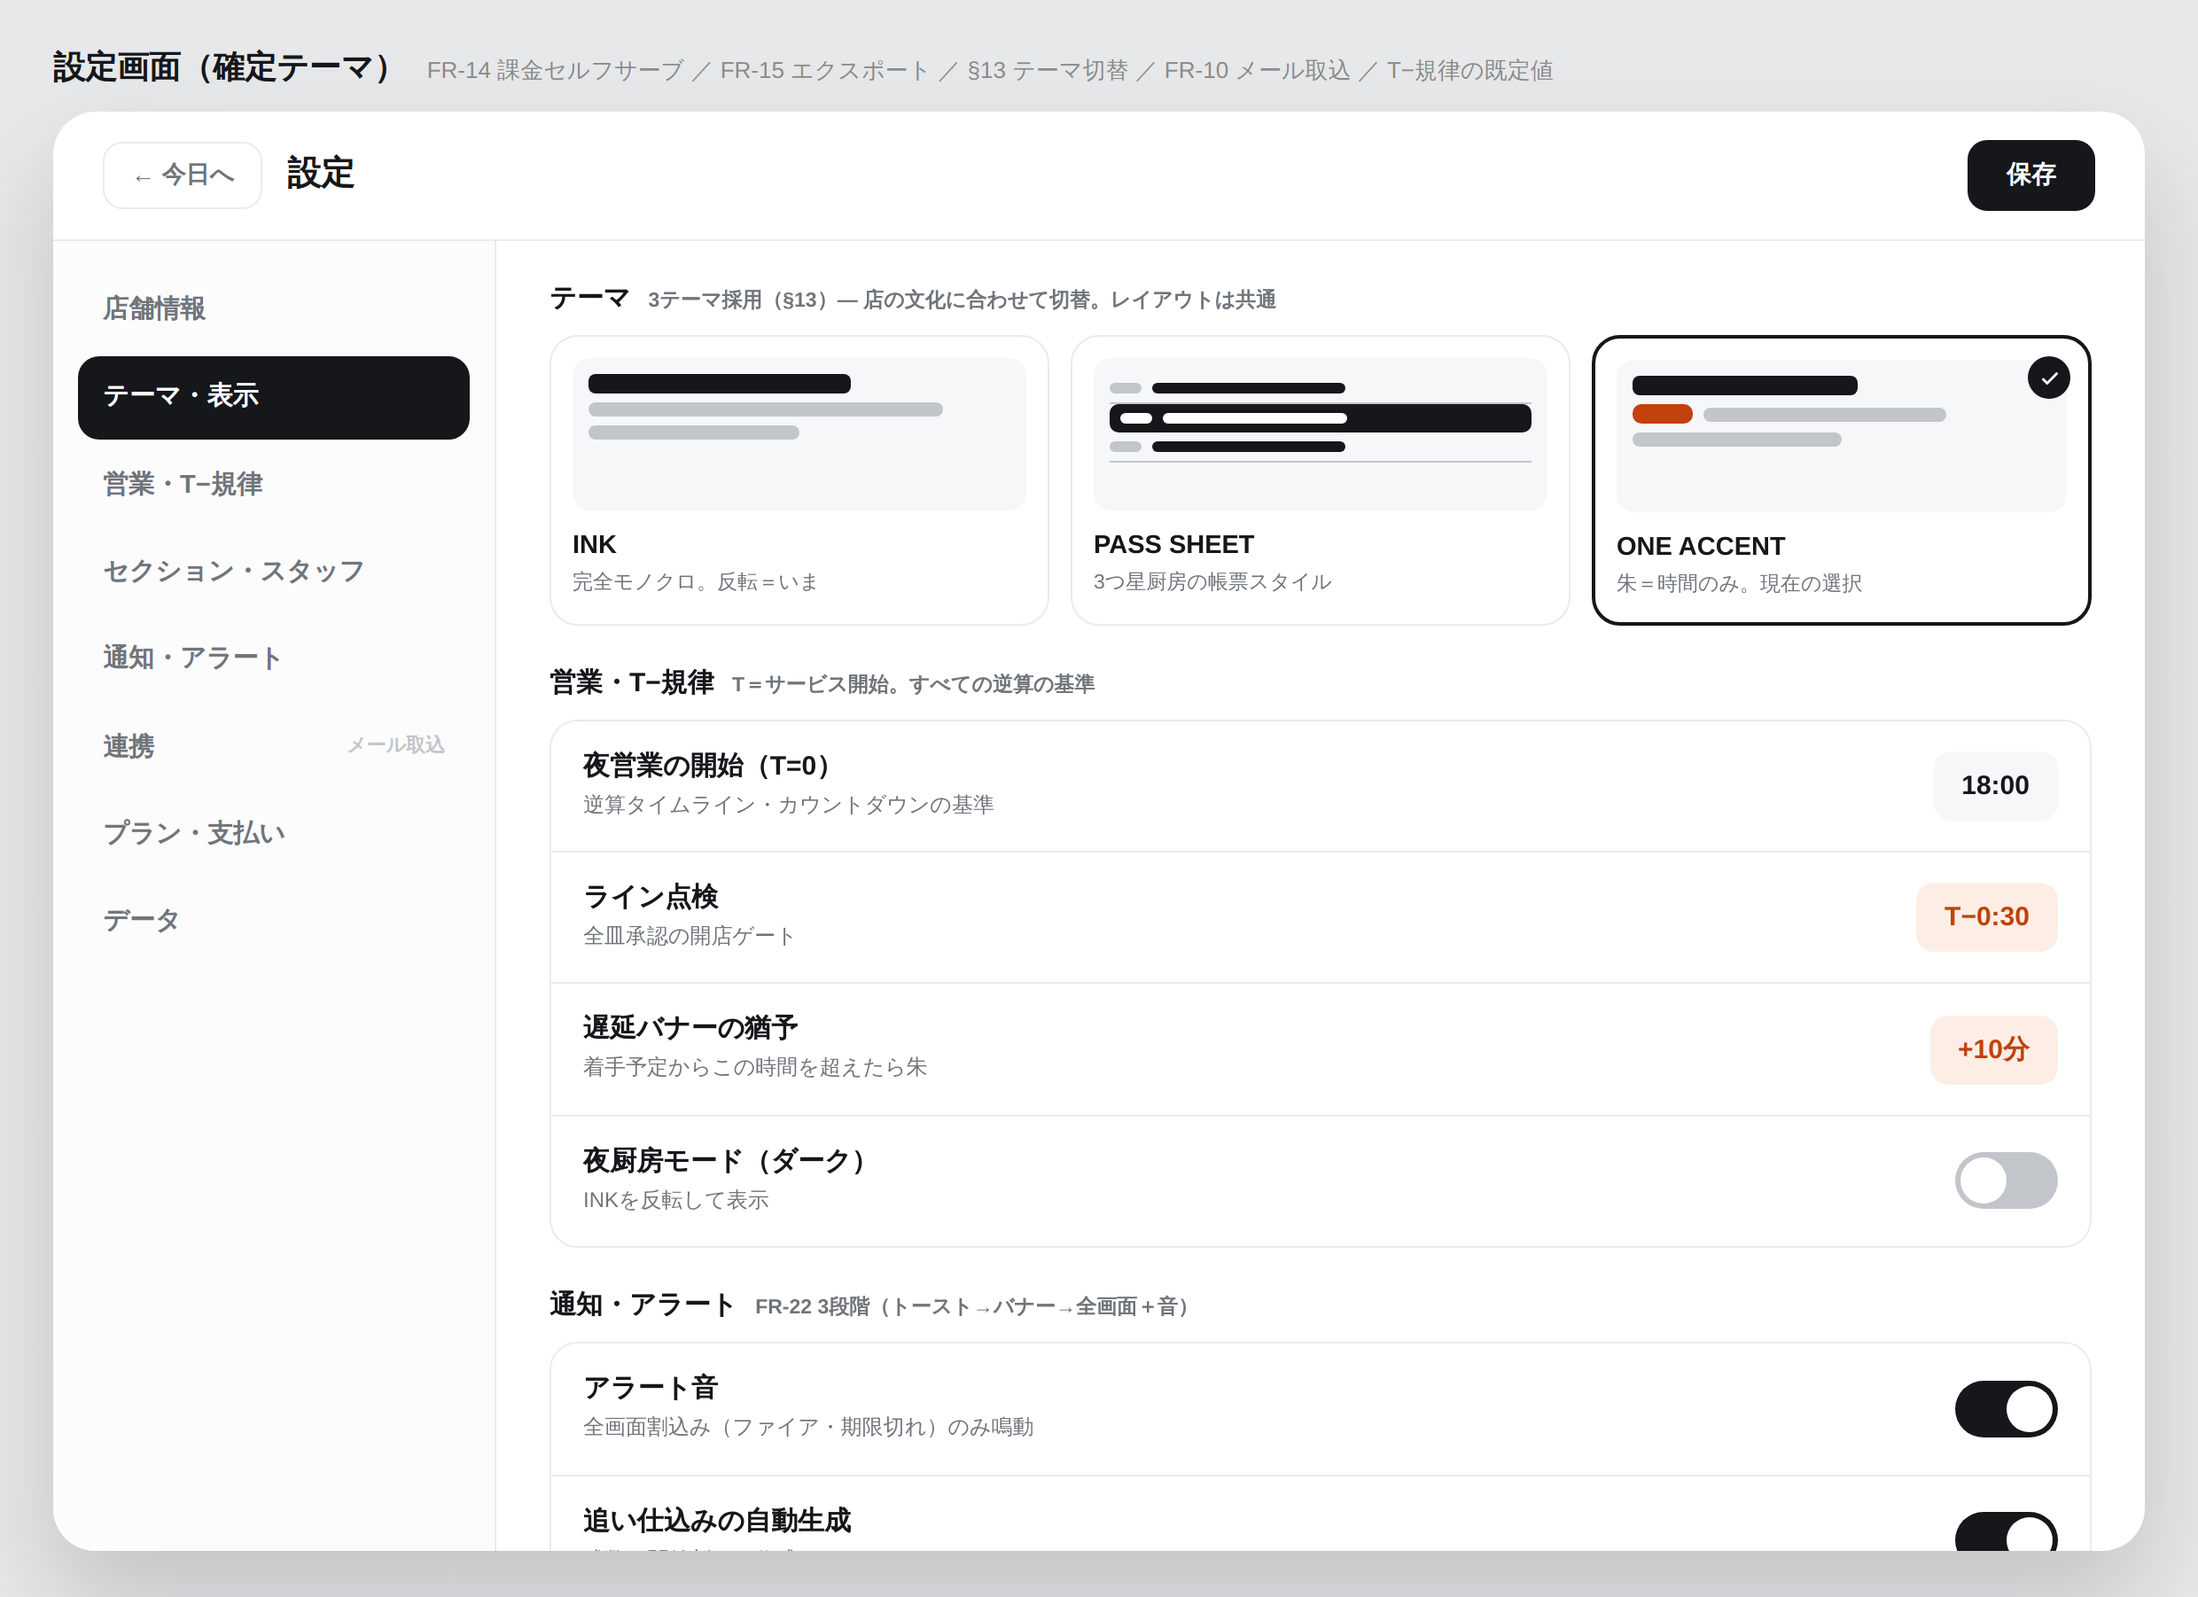
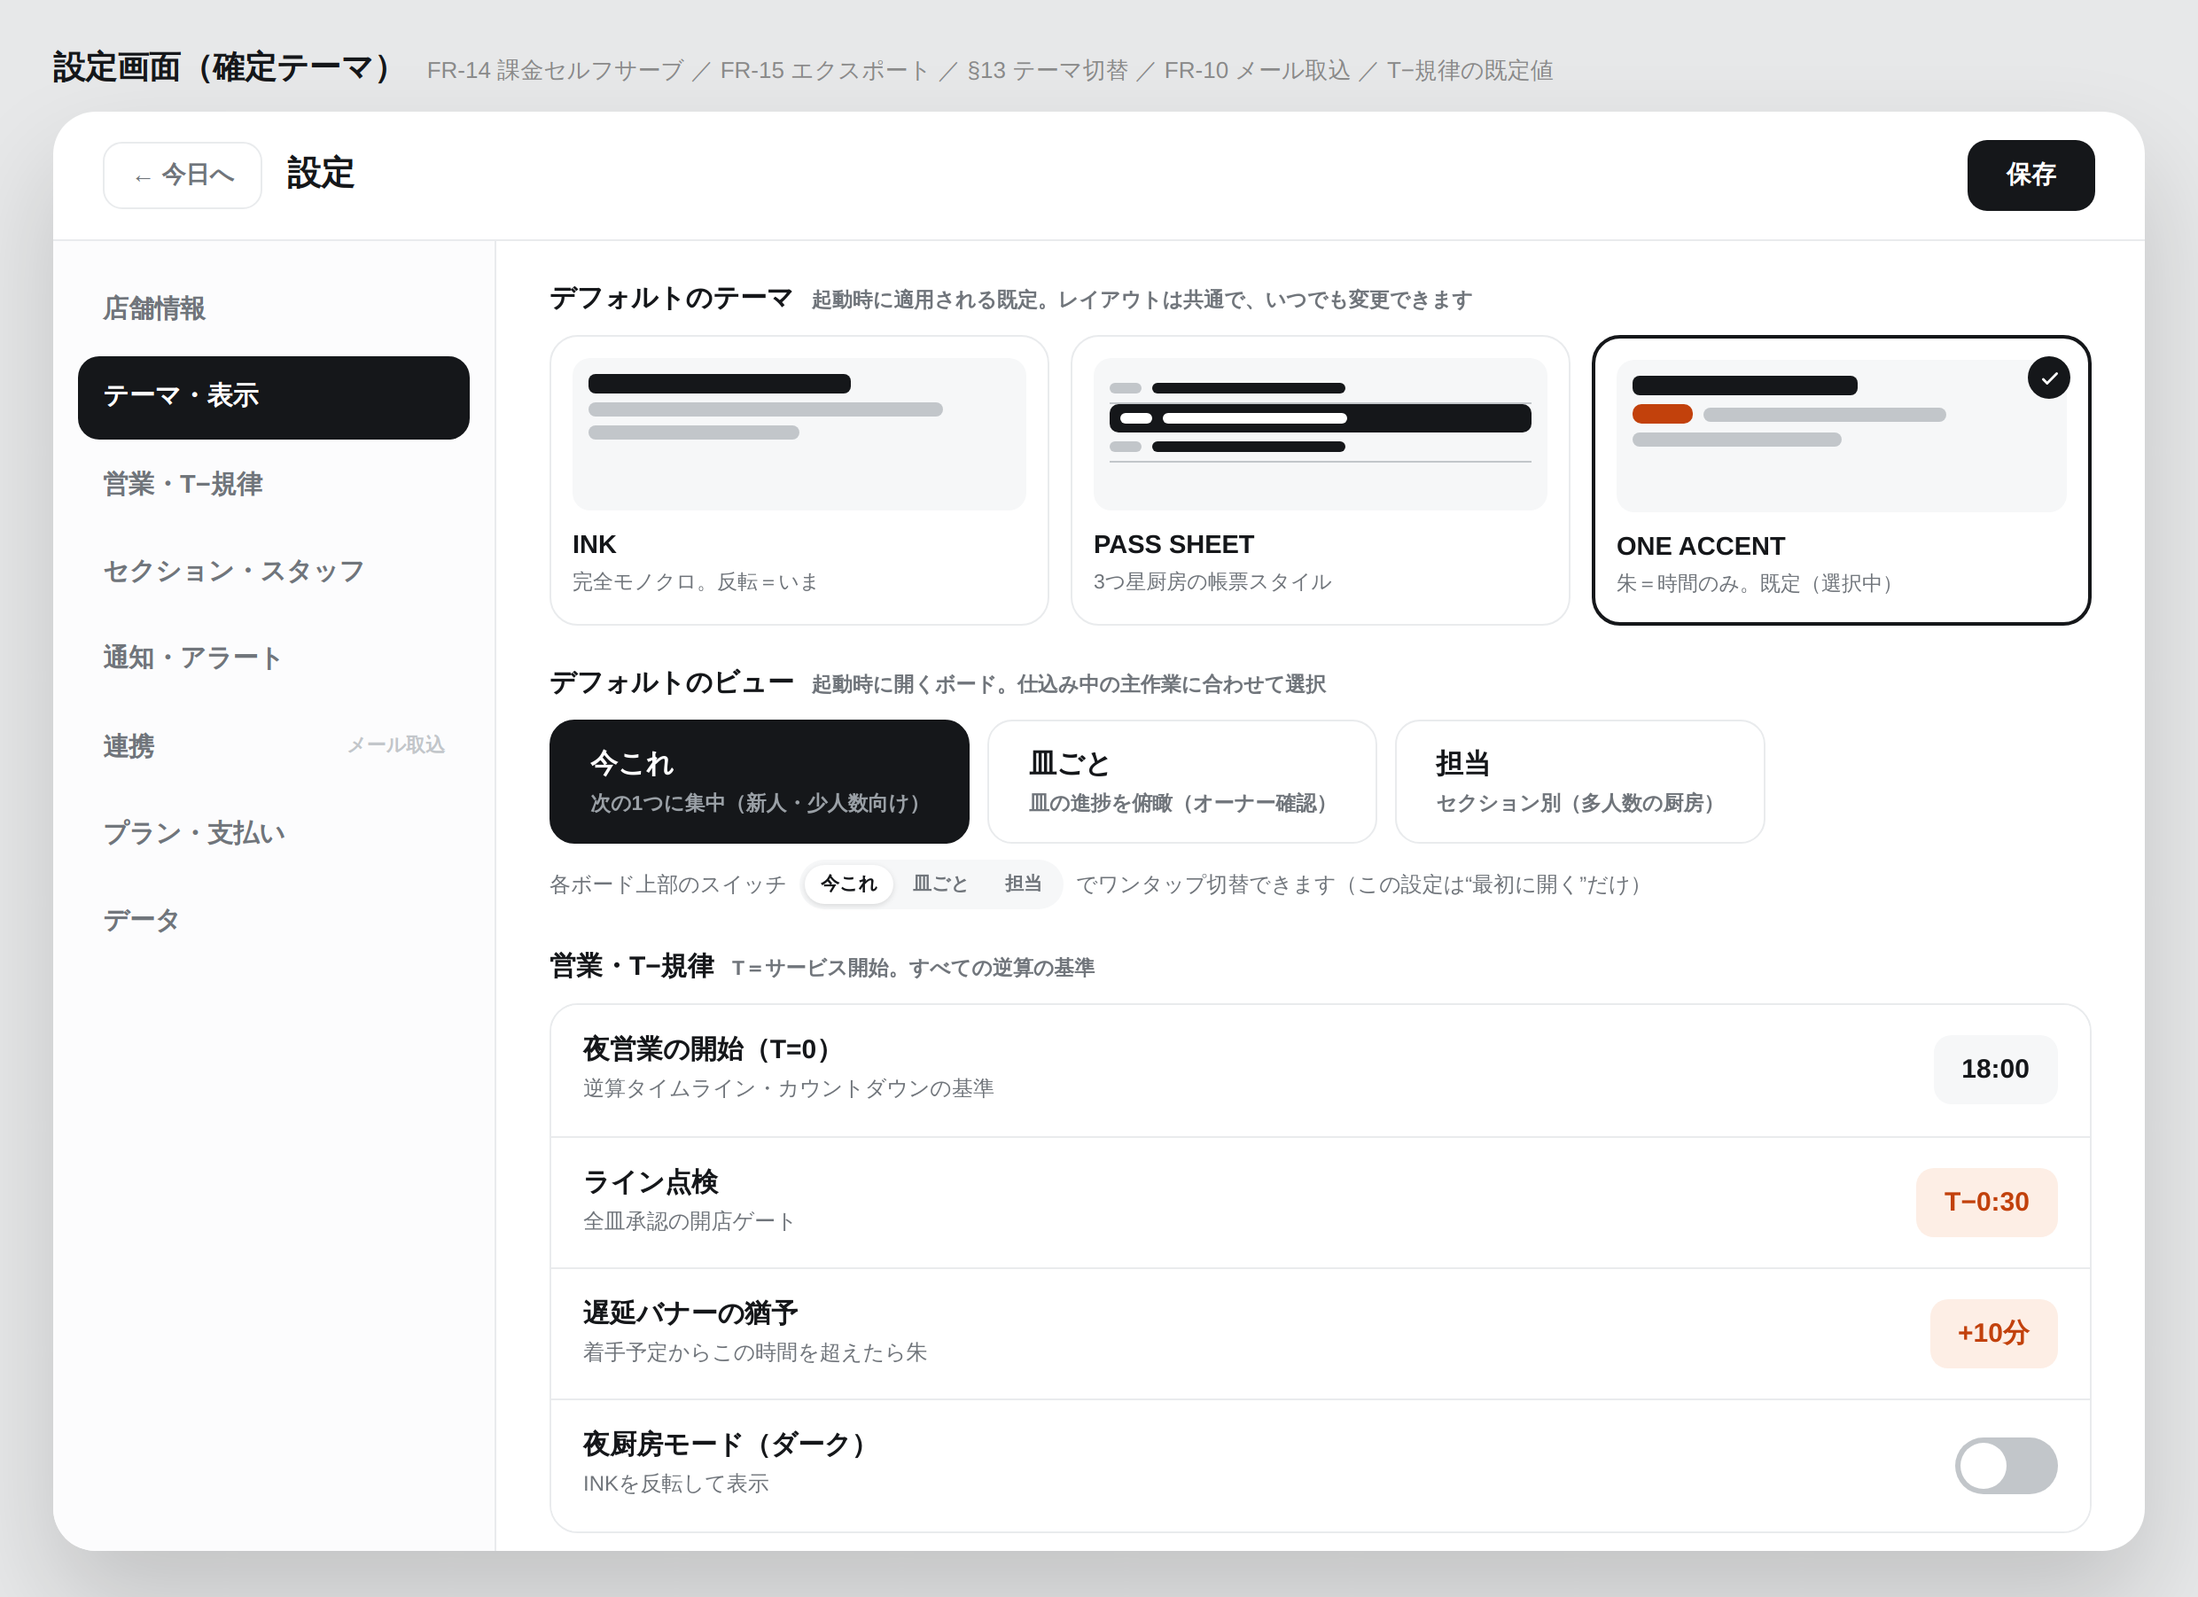
Settings defaults (theme+view) and pilot one-pager
- 設定: テーマ・表示を「デフォルト設定」を選ぶ形に変更
  （デフォルトのテーマ＋デフォルトのビュー。各ボード上部スイッチで即切替できる旨を明示）
- パイロット店向け資料（1ページ）: 課題→価値→3ステップ→実画面4枚→差別化→料金→無料パイロット募集
  実画面はキャプション除去のクリーンショット（pilot-shot-*.png）を埋め込み

https://claude.ai/code/session_018mZZ112uFbi6TDTQG5iJF9

diff --git a/design/pilot-onepager.html b/design/pilot-onepager.html
@@ -1,0 +1,130 @@
+<!doctype html>
+<html lang="ja"><head><meta charset="UTF-8"/><meta name="viewport" content="width=device-width, initial-scale=1.0"/>
+<title>PrepFlow — パイロット店向け資料</title>
+<link href="https://api.fontshare.com/v2/css?f[]=satoshi@400,500,700,900&display=swap" rel="stylesheet">
+<style>
+  :root{--ink:#15171a;--g2:#6f747a;--g3:#bcc0c4;--g4:#e9ebed;--g5:#f6f7f8;
+        --time:#c2410c;--time-s:#fdeee5;--font:'Satoshi',sans-serif}
+  *{box-sizing:border-box;margin:0;padding:0}
+  body{font-family:var(--font);background:#dcdedf;color:var(--ink);-webkit-font-smoothing:antialiased;padding:24px;line-height:1.45}
+  .sheet{width:880px;margin:0 auto;background:#fff;border-radius:18px;box-shadow:0 24px 60px rgba(0,0,0,.16);overflow:hidden}
+  /* hero */
+  .hero{background:var(--ink);color:#fff;padding:32px 40px 28px}
+  .brand{display:flex;align-items:center;gap:13px}
+  .logo{width:34px;height:34px;color:#fff}
+  .brand b{font-size:24px;font-weight:900;letter-spacing:-.01em}
+  .brand .badge{margin-left:auto;font-size:11px;font-weight:900;letter-spacing:.12em;color:var(--ink);background:#fff;padding:7px 13px;border-radius:999px}
+  .hero h1{font-size:34px;font-weight:900;letter-spacing:-.02em;margin-top:20px;line-height:1.12}
+  .hero h1 em{font-style:normal;color:#f0a070}
+  .hero p{font-size:15px;color:#aeb3b8;margin-top:10px}
+  /* body */
+  .pad{padding:30px 40px}
+  .kicker{font-size:12px;font-weight:900;letter-spacing:.14em;color:var(--time);margin-bottom:14px}
+  /* problems */
+  .probs{display:grid;grid-template-columns:repeat(3,1fr);gap:16px}
+  .prob{border:1.5px solid var(--g4);border-radius:14px;padding:16px}
+  .prob b{font-size:16px;font-weight:900;display:block}
+  .prob p{font-size:12.5px;color:var(--g2);margin-top:6px}
+  .prob .stat{font-size:12px;font-weight:900;color:var(--time);margin-top:9px}
+  /* value line */
+  .value{margin:26px 0 4px;background:var(--g5);border-radius:16px;padding:22px 24px;font-size:20px;font-weight:900;line-height:1.4}
+  .value em{font-style:normal;border-bottom:4px solid var(--time);padding-bottom:1px}
+  /* steps */
+  .steps{display:grid;grid-template-columns:repeat(3,1fr);gap:16px;margin-top:14px}
+  .step{position:relative;padding-top:6px}
+  .step .n{width:34px;height:34px;border-radius:50%;background:var(--ink);color:#fff;display:grid;place-items:center;font-size:16px;font-weight:900}
+  .step b{display:block;font-size:15.5px;font-weight:900;margin-top:11px}
+  .step p{font-size:12.5px;color:var(--g2);margin-top:5px}
+  /* screens */
+  .shots{display:grid;grid-template-columns:repeat(2,1fr);gap:14px;margin-top:14px}
+  .shot{border:1.5px solid var(--g4);border-radius:14px;overflow:hidden;background:var(--g5)}
+  .shot img{width:100%;display:block}
+  .shot .lab{display:flex;align-items:center;justify-content:space-between;padding:10px 14px}
+  .shot .lab b{font-size:14px;font-weight:900}
+  .shot .lab span{font-size:11.5px;color:var(--g2)}
+  /* why */
+  .why{display:flex;gap:14px;align-items:flex-start;margin-top:24px;border-left:5px solid var(--time);padding:4px 0 4px 18px}
+  .why b{font-size:17px;font-weight:900;display:block}
+  .why p{font-size:13.5px;color:var(--g2);margin-top:5px}
+  /* pricing */
+  .price{display:grid;grid-template-columns:repeat(4,1fr);gap:12px;margin-top:14px}
+  .pc{border:1.5px solid var(--g4);border-radius:14px;padding:16px 14px;text-align:center;position:relative}
+  .pc.best{border-color:var(--ink);border-width:2.5px}
+  .pc .nm{font-size:13px;font-weight:900;color:var(--g2)}
+  .pc .pr{font-size:22px;font-weight:900;margin-top:6px;font-variant-numeric:tabular-nums}
+  .pc .pr small{font-size:11px;color:var(--g2);font-weight:700}
+  .pc .tag{position:absolute;top:-11px;left:50%;transform:translateX(-50%);font-size:10px;font-weight:900;color:#fff;background:var(--ink);padding:4px 10px;border-radius:999px;white-space:nowrap}
+  /* offer */
+  .offer{margin:28px 40px 0;background:var(--time);color:#fff;border-radius:18px;padding:24px 28px;display:flex;align-items:center;gap:22px}
+  .offer .l b{font-size:22px;font-weight:900;display:block}
+  .offer .l p{font-size:13.5px;color:#fbe2d5;margin-top:6px}
+  .offer .r{margin-left:auto;text-align:right;flex:none}
+  .offer .r .big{font-size:30px;font-weight:900;line-height:1}
+  .offer .r small{font-size:12px;color:#fbe2d5}
+  /* footer */
+  .foot{padding:20px 40px 30px;display:flex;align-items:center;gap:16px;color:var(--g2);font-size:12.5px}
+  .foot .mail{font-weight:900;color:var(--ink)}
+  .foot .qr{margin-left:auto;width:64px;height:64px;border-radius:10px;background:repeating-linear-gradient(45deg,#15171a,#15171a 4px,#fff 4px,#fff 8px)}
+  svg{stroke-width:2.4;fill:none;stroke-linecap:round;stroke-linejoin:round}
+</style></head>
+<body>
+<div class="sheet">
+  <div class="hero">
+    <div class="brand">
+      <svg class="logo" viewBox="0 0 48 48" fill="none"><rect x="6" y="7" width="16" height="34" rx="8" stroke="currentColor" stroke-width="4"/><path d="M24 11h7c6.6 0 12 5.4 12 12s-5.4 12-12 12h-7" stroke="currentColor" stroke-width="4" stroke-linecap="round"/><path d="M24 24h14" stroke="currentColor" stroke-width="4" stroke-linecap="round"/></svg>
+      <b>PrepFlow</b>
+      <span class="badge">無料パイロット募集</span>
+    </div>
+    <h1>予約から逆算する、<em>仕込みの司令塔。</em></h1>
+    <p>コース料理を出す高級店・専門店のための、仕込み（mise-en-place）管理アプリ。タブレット1台で。</p>
+  </div>
+
+  <div class="pad">
+    <div class="kicker">こんな悩み、ありませんか</div>
+    <div class="probs">
+      <div class="prob"><b>人手が足りない</b><p>限られた人数で、仕込みの抜け漏れが怖い。</p><div class="stat">飲食店倒産は2024年に過去最多</div></div>
+      <div class="prob"><b>あの人しかできない</b><p>段取りも味も属人化。新人が育たない。</p><div class="stat">技術の継承が課題</div></div>
+      <div class="prob"><b>作りすぎ・足りない</b><p>予約が読めず、食材ロスと品切れ。</p><div class="stat">外食の食品ロスは年66万t</div></div>
+    </div>
+
+    <div class="value">予約人数から <em>「誰が・何を・いつ・どれだけ」</em> 仕込むかを自動で並べ、<br>チェックするだけで開店に間に合う。</div>
+
+    <div class="kicker" style="margin-top:26px">使い方は3ステップ</div>
+    <div class="steps">
+      <div class="step"><div class="n">1</div><b>予約人数を入れる</b><p>手入力、または予約サイトの通知メールを転送するだけ。</p></div>
+      <div class="step"><div class="n">2</div><b>仕込みが自動で並ぶ</b><p>開店時刻から逆算し、時間順に・担当別に・必要量つきで。</p></div>
+      <div class="step"><div class="n">3</div><b>チェックで皿が完成</b><p>全部そろうと「開店OK」。営業中は残りも自動で見える。</p></div>
+    </div>
+
+    <div class="kicker" style="margin-top:28px">実際の画面</div>
+    <div class="shots">
+      <div class="shot"><img src="pilot-shot-now.png" alt=""><div class="lab"><b>今これ</b><span>次の1つに集中</span></div></div>
+      <div class="shot"><img src="pilot-shot-dishes.png" alt=""><div class="lab"><b>皿ごと</b><span>進捗をひと目で</span></div></div>
+      <div class="shot"><img src="pilot-shot-service.png" alt=""><div class="lab"><b>営業中</b><span>残数と追い仕込み</span></div></div>
+      <div class="shot"><img src="pilot-shot-pass.png" alt=""><div class="lab"><b>全卓パス</b><span>将来：POS連携</span></div></div>
+    </div>
+
+    <div class="why">
+      <div><b>“予約と仕込みがつながる”のはPrepFlowだけ。</b>
+      <p>タスク管理ツールやPOSにはない、予約人数からの「数量」と「段取り」の自動計算。高級店の現場に最適化。</p></div>
+    </div>
+
+    <div class="kicker" style="margin-top:26px">料金（税別）</div>
+    <div class="price">
+      <div class="pc"><div class="nm">Free</div><div class="pr">¥0</div></div>
+      <div class="pc"><div class="nm">Lite</div><div class="pr">¥5,800<small>/月</small></div></div>
+      <div class="pc best"><div class="tag">おすすめ</div><div class="nm">Standard</div><div class="pr">¥9,800<small>/月</small></div></div>
+      <div class="pc"><div class="nm">Pro</div><div class="pr">¥19,800<small>/月</small></div></div>
+    </div>
+  </div>
+
+  <div class="offer">
+    <div class="l"><b>無料パイロット、先着10店</b><p>導入サポート込み・3か月無料。現場の声を一緒に育てていただける店舗を募集します。</p></div>
+    <div class="r"><div class="big">¥0</div><small>3か月 / 初期費用なし</small></div>
+  </div>
+  <div class="foot">
+    <div>お問い合わせ：<span class="mail">hello@prepflow.app</span> ／ オンラインで5分のデモ</div>
+    <div class="qr"></div>
+  </div>
+</div>
+</body></html>

diff --git a/design/p1-wireframe-settings.html b/design/p1-wireframe-settings.html
@@ -26,6 +26,16 @@
   .sec h2{font-size:15px;font-weight:900;margin-bottom:10px;display:flex;align-items:baseline;gap:10px}
   .sec h2 small{font-size:11.5px;color:var(--g2);font-weight:700}
   /* theme cards */
+  .viewseg{display:inline-flex;gap:10px;flex-wrap:wrap}
+  .viewseg button{display:flex;flex-direction:column;align-items:flex-start;gap:4px;border:1.5px solid var(--g4);background:#fff;border-radius:14px;padding:14px 22px;font-family:var(--font);cursor:pointer;min-width:160px}
+  .viewseg button .vt{font-size:15.5px;font-weight:900;color:var(--ink)}
+  .viewseg button .vd{font-size:11.5px;color:var(--g2);font-weight:600}
+  .viewseg button.on{background:var(--ink);border-color:var(--ink)}
+  .viewseg button.on .vt{color:#fff}.viewseg button.on .vd{color:#9aa0a6}
+  .hint{font-size:12px;color:var(--g2);margin-top:9px;display:flex;align-items:center;gap:7px}
+  .hint .chipmini{display:inline-flex;background:var(--g5);border-radius:999px;padding:3px;gap:2px}
+  .hint .chipmini i{font-style:normal;font-size:10.5px;font-weight:700;color:var(--g2);padding:4px 9px;border-radius:999px}
+  .hint .chipmini i.on{background:#fff;color:var(--ink);box-shadow:0 1px 3px rgba(0,0,0,.12)}
   .themes{display:grid;grid-template-columns:repeat(3,1fr);gap:12px}
   .th{border:1.5px solid var(--g4);border-radius:16px;padding:12px;cursor:pointer;position:relative}
   .th.sel{border-color:var(--ink);border-width:2.5px}
@@ -98,7 +108,7 @@
       <div class="cont">
         <!-- theme -->
         <div class="sec">
-          <h2>テーマ <small>3テーマ採用（§13）— 店の文化に合わせて切替。レイアウトは共通</small></h2>
+          <h2>デフォルトのテーマ <small>起動時に適用される既定。レイアウトは共通で、いつでも変更できます</small></h2>
           <div class="themes">
             <div class="th">
               <div class="pv"><div class="l1"></div><div class="l2"></div><div class="l3"></div></div>
@@ -116,10 +126,20 @@
             </div>
             <div class="th oa sel">
               <div class="pv"><div class="l1"></div><div class="dot"><s></s><u></u></div><div class="l3"></div></div>
-              <h3>ONE ACCENT</h3><p>朱＝時間のみ。現在の選択</p>
+              <h3>ONE ACCENT</h3><p>朱＝時間のみ。既定（選択中）</p>
               <div class="ck"><svg viewBox="0 0 24 24"><path d="M5 13l4 4L19 7"/></svg></div>
             </div>
           </div>
+        </div>
+        <!-- default view -->
+        <div class="sec">
+          <h2>デフォルトのビュー <small>起動時に開くボード。仕込み中の主作業に合わせて選択</small></h2>
+          <div class="viewseg">
+            <button class="on"><span class="vt">今これ</span><span class="vd">次の1つに集中（新人・少人数向け）</span></button>
+            <button><span class="vt">皿ごと</span><span class="vd">皿の進捗を俯瞰（オーナー確認）</span></button>
+            <button><span class="vt">担当</span><span class="vd">セクション別（多人数の厨房）</span></button>
+          </div>
+          <p class="hint">各ボード上部のスイッチ <span class="chipmini"><i class="on">今これ</i><i>皿ごと</i><i>担当</i></span> でワンタップ切替できます（この設定は“最初に開く”だけ）</p>
         </div>
         <!-- T- discipline -->
         <div class="sec">
